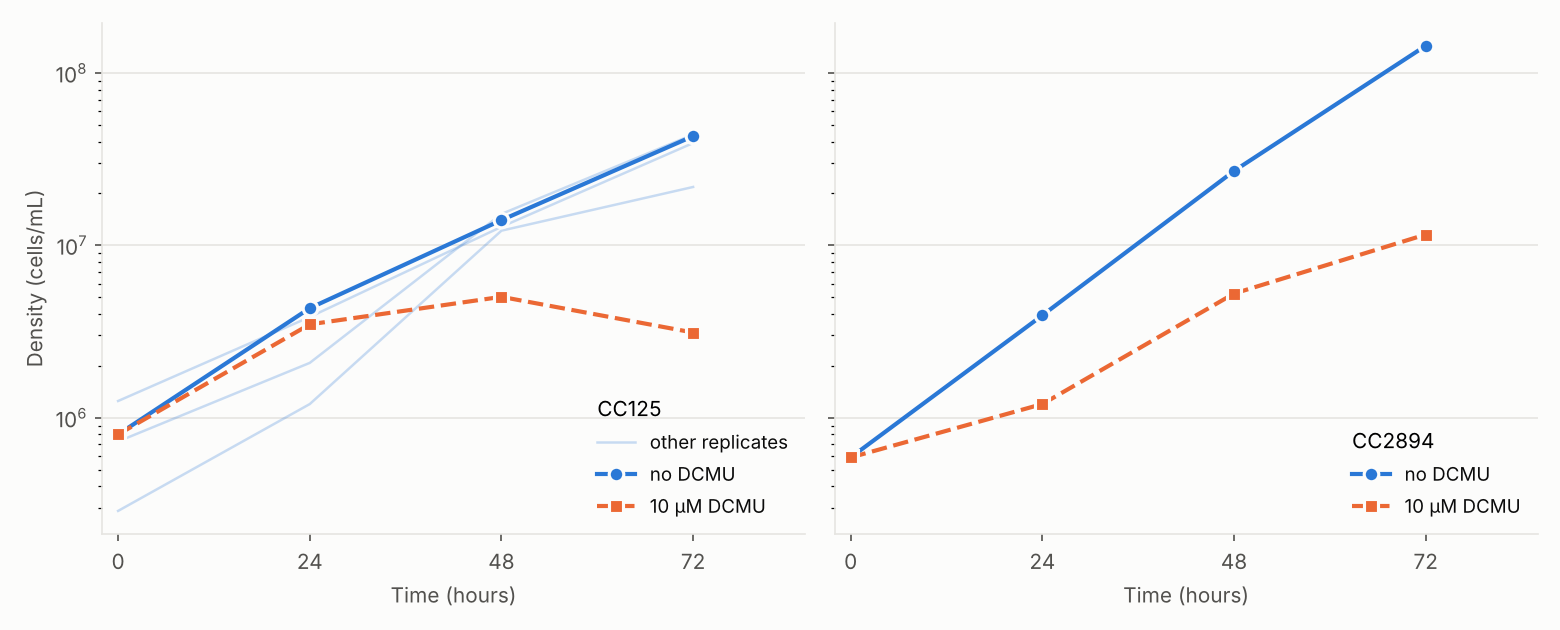
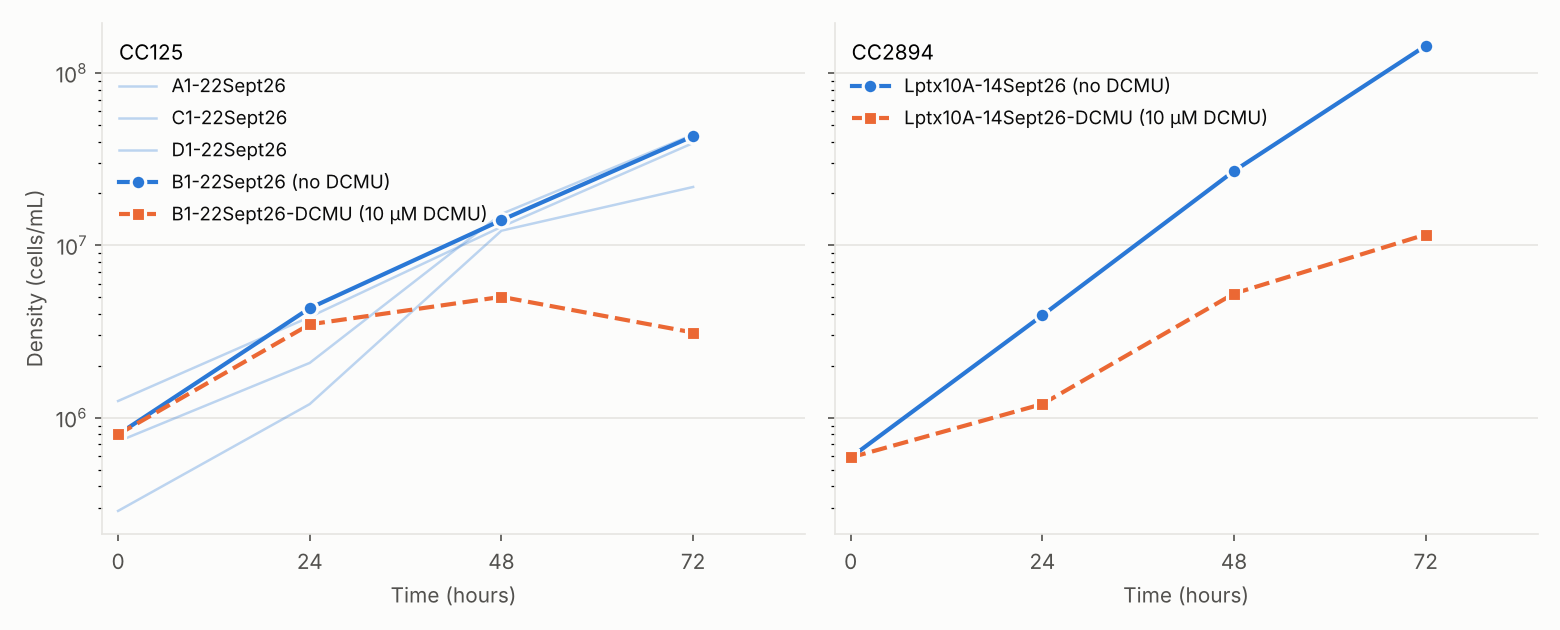
DCMU comparison plot: minimal, legend names every colony id
Axes and legend only; each line is labelled with its colony id.

Claude-Session: https://claude.ai/code/session_01S7XuyR3HdJashvtccin4kt

diff --git a/data/MDev__ghost__2026_10_16__14hh_7mm__cellcounting__8ff60a8a16/analysis/make_dcmu_comparison.py b/data/MDev__ghost__2026_10_16__14hh_7mm__cellcounting__8ff60a8a16/analysis/make_dcmu_comparison.py
@@ -3,7 +3,7 @@
 
 Usage: python3 make_dcmu_comparison.py <analysis_dir>
 Reads analysis/cell_counts.csv, writes analysis/dcmu_comparison.png.
-Minimal: legend only, no titles or annotations. Pairs each DCMU culture with its untreated twin by name ("<twin>-DCMU"); other replicates of the
+Minimal: legend only (it names every colony id), no titles or annotations. Pairs each DCMU culture with its untreated twin by name ("<twin>-DCMU"); other replicates of the
 same strain are drawn as thin context lines. Density is dilution-compensated; x = hours since
 that culture's first count.
 """
@@ -35,14 +35,14 @@ for ax, (mutant, twin, d) in zip(axes, strains):
               and cc.loc[cc.label == l, "mutant"].iloc[0] == mutant]
     for i, l in enumerate(others):                       # other untreated replicates, context only
         s = cc[cc.label == l]
-        ax.plot(s.hours, s.compensated_density, color=BLUE, alpha=0.25, lw=1.2, zorder=1,
-                label="other replicates" if i == 0 else None)
+        ax.plot(s.hours, s.compensated_density, color=BLUE, alpha=0.3, lw=1.2, zorder=1,
+                label=l)
     for lab, col, ls, mk, name in [(twin, BLUE, "-", "o", "no DCMU"), (d, ORANGE, "--", "s", "10 µM DCMU")]:
         s = cc[cc.label == lab]
         cond = s["condition"].dropna().unique()
         ax.plot(s.hours, s.compensated_density, color=col, ls=ls, marker=mk, ms=7, lw=2,
                 markeredgecolor=SURF, markeredgewidth=1.5, zorder=3,
-                label=name)
+                label=f"{lab} ({name})")
     ax.set_yscale("log")
     ax.set_xlabel("Time (hours)", color=INK2)
     ax.set_xlim(-2, 86); ax.set_xticks([0, 24, 48, 72])
@@ -50,7 +50,7 @@ for ax, (mutant, twin, d) in zip(axes, strains):
     for sp in ("top", "right"): ax.spines[sp].set_visible(False)
     for sp in ("left", "bottom"): ax.spines[sp].set_color(GRID)
     ax.tick_params(colors=INK2)
-    ax.legend(title=mutant, loc="lower right", fontsize=9, title_fontsize=10, frameon=False, labelcolor=INK, alignment="left")
+    ax.legend(title=mutant, loc="upper left", fontsize=9, title_fontsize=10, frameon=False, labelcolor=INK, alignment="left")
 axes[0].set_ylabel("Density (cells/mL)", color=INK2)
 fig.tight_layout()
 out = os.path.join(A, "dcmu_comparison.png"); fig.savefig(out, dpi=150, facecolor=SURF)
